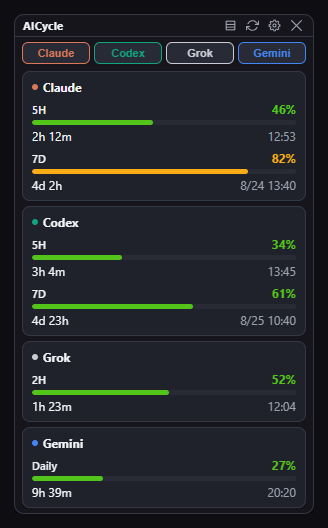
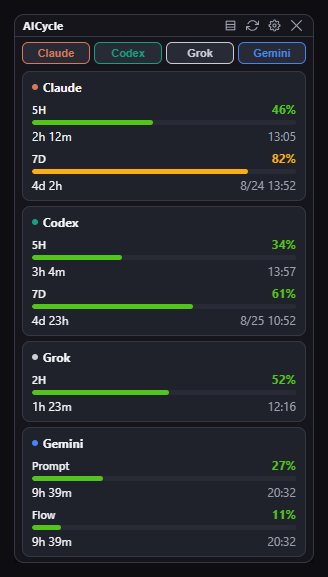
Trim long window labels in compact slots
A compact slot gives its top line 58px, and the label sits next to the
percentage. Short labels are fine, but the descriptive ones overflow it:
'Prompt' plus '100%' is 67px and '5H·local' plus '100%' is 70px. Compact now
cuts labels longer than three characters to a two-letter mark and drops the
'·local' suffix, with the full wording kept in the title attribute, the cards
and the detail view.

That also frees real width, since the slot no longer has to reserve room for
'Prompt': 68px per slot down to 56, so four providers go from 300px wide to 254.
Verified with every window forced to 100%: no row overflows or wraps.

The screenshot mock labelled the Gemini window 'Daily', which is not a label the
Antigravity collector ever produces - the real ones are 'Prompt' and 'Flow' -
and that wrong value is why the overflow did not show up in captures. Fixed, and
the second credit window added.

Changed region(s): [[0.061, 0.0, 0.9451, 1.0], [0.8232, 0.697, 0.9146, 0.7273]]

diff --git a/src/renderer/lib.ts b/src/renderer/lib.ts
@@ -60,6 +60,17 @@ export function fiveHour(windows: UsageWindow[]): UsageWindow | undefined {
   return windows.find((w) => w.window_type === 'five_hour')
 }
 
+/** Window label trimmed for a compact slot. Descriptive labels ('Prompt',
+ *  '5H·local') need more room than a slot has next to the percentage — 'Prompt'
+ *  plus '100%' is 67px against 58px of space — so they are cut to a two-letter
+ *  mark. Short labels ('5H', '1D') are already fine and pass through. The full
+ *  wording stays in the cards and the detail view. */
+export function compactLabel(label?: string): string {
+  if (!label) return ''
+  const base = label.split('·')[0]
+  return base.length <= 3 ? base : base.slice(0, 2).toUpperCase()
+}
+
 /** The one or two windows compact mode shows: the short window on top and the
  *  weekly one under it. Providers that report a single window (Grok, Gemini)
  *  yield just that one. seven_day_opus is left to the detail view. */

diff --git a/src/renderer/components/CompactRow.tsx b/src/renderer/components/CompactRow.tsx
@@ -1,5 +1,5 @@
 import type { ProviderId, UsageSnapshot } from '../types'
-import { PROVIDER_META, arcColor, compactWindows, pct, fmtCountdown } from '../lib'
+import { PROVIDER_META, arcColor, compactLabel, compactWindows, pct, fmtCountdown } from '../lib'
 import { t } from '../../shared/i18n'
 
 /** One provider's slot: its short window on top, the weekly one below when the
@@ -25,7 +25,7 @@ function Slot({ snap, weekly, onClick }: { snap: UsageSnapshot; weekly: boolean;
           return (
             <div className="cwin" key={i}>
               <div className="cwin-top">
-                <span className="cwin-label muted">{w.label ?? w.window_type}</span>
+                <span className="cwin-label muted" title={w.label}>{compactLabel(w.label ?? w.window_type)}</span>
                 <span className="cwin-pct" style={{ color }}>{used}%</span>
               </div>
               <div className="cwin-track">

diff --git a/src/renderer/styles.css b/src/renderer/styles.css
@@ -226,7 +226,9 @@ html, body, #root {
 
 .crow { display: flex; gap: 4px; padding: 2px 8px 8px; -webkit-app-region: no-drag; }
 .cslot {
-  width: 68px; flex: none; cursor: pointer;
+  /* Fits the widest content a slot can hold: a two-letter label plus '100%'
+     (47px) and the longest countdown (~37px), over 8px of padding. */
+  width: 56px; flex: none; cursor: pointer;
   background: var(--panel); border: 1px solid var(--border);
   border-radius: 6px; padding: 5px 4px;
   display: flex; flex-direction: column; gap: 5px;
